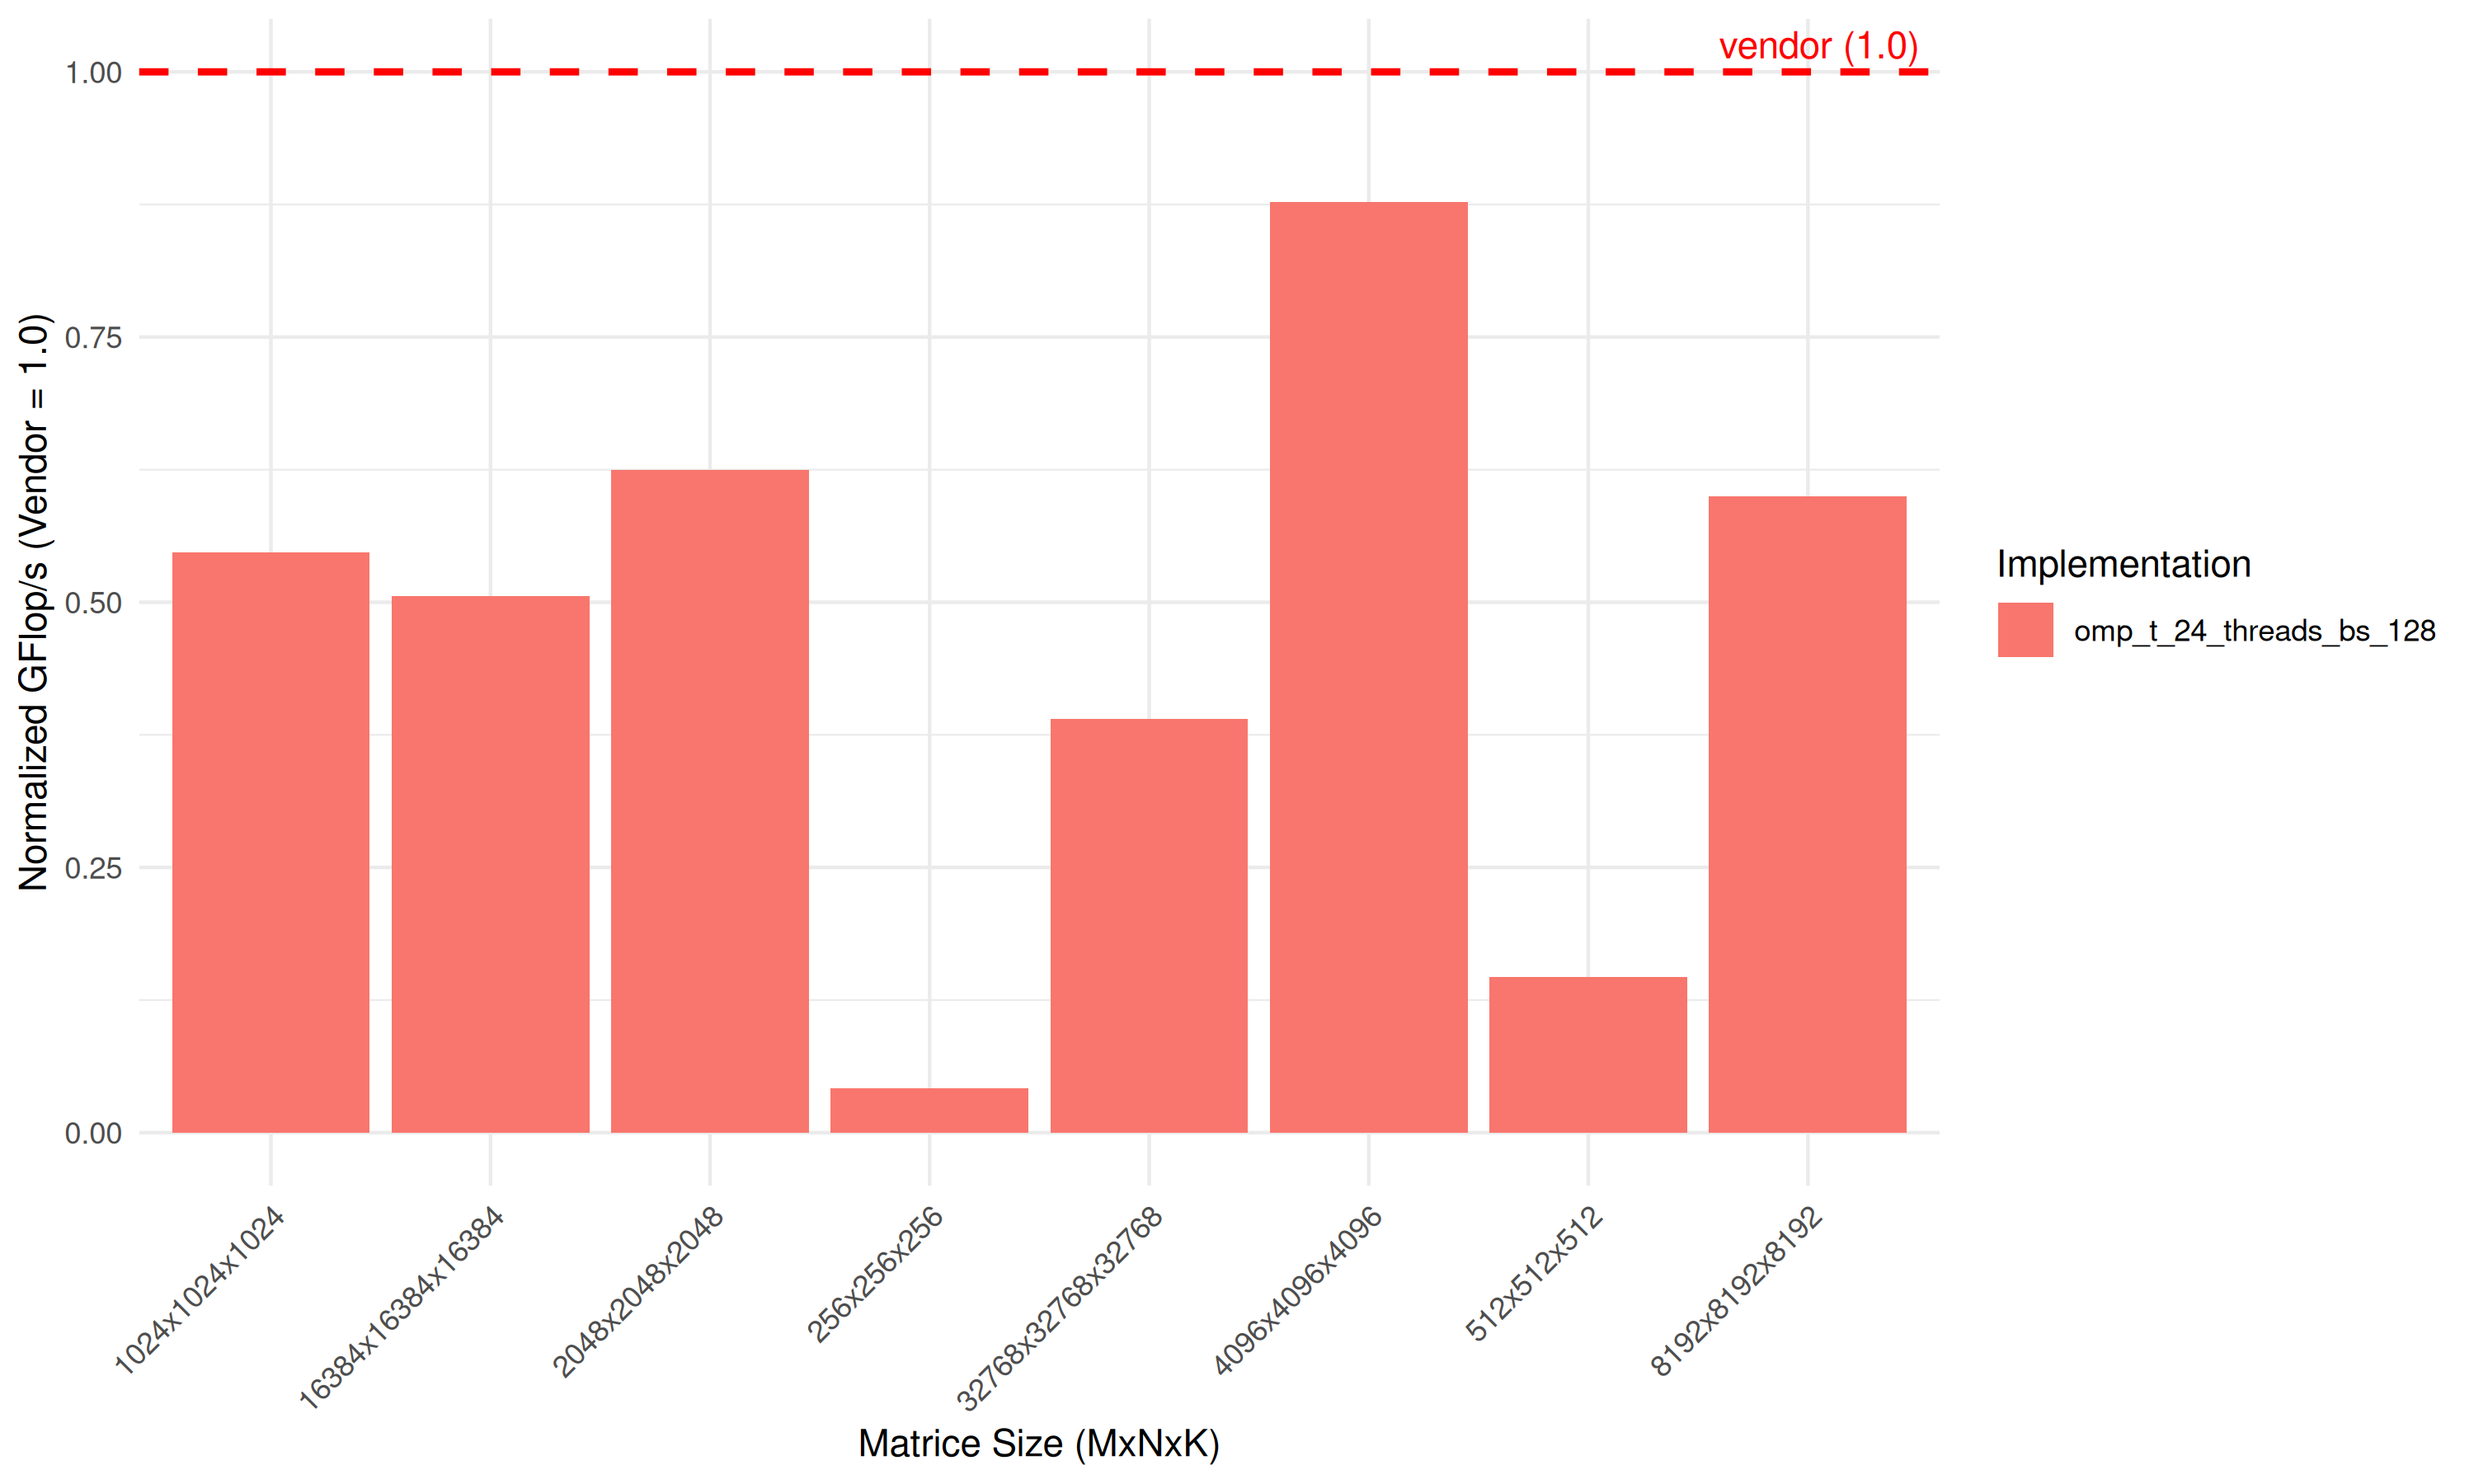
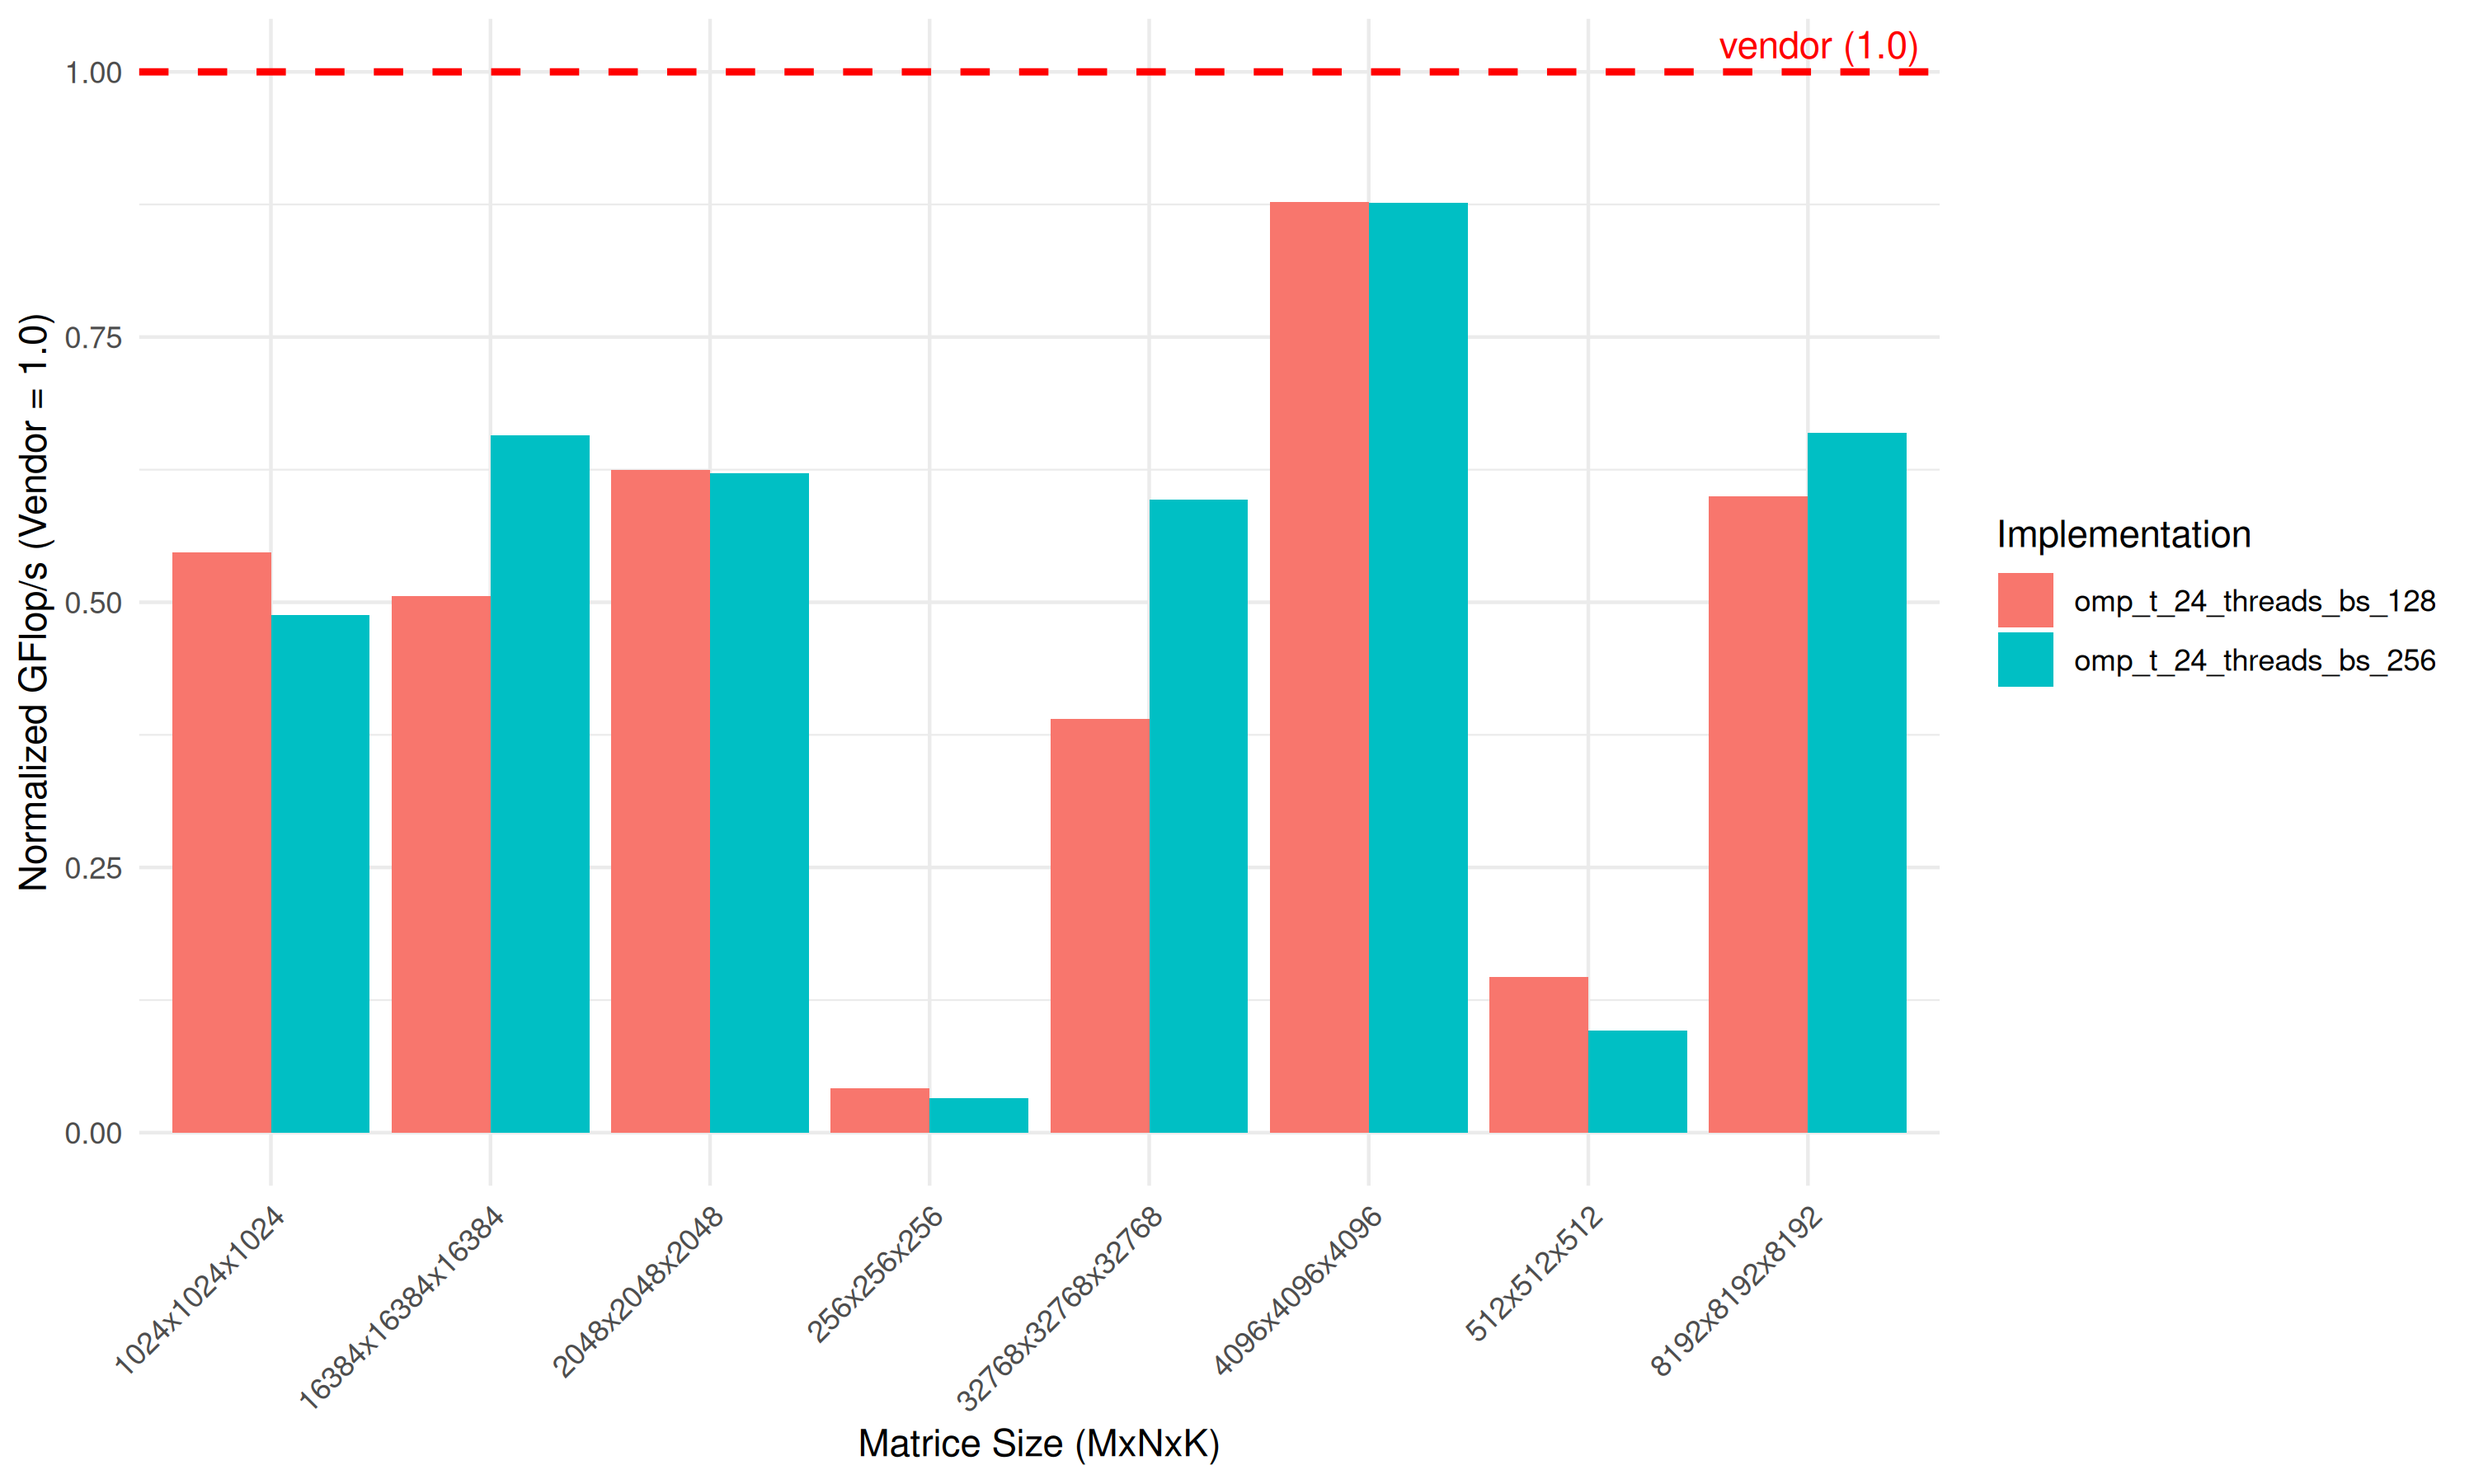
update report and add a conclusion

diff --git a/report/report.tex b/report/report.tex
@@ -92,43 +92,90 @@ En revanche, comme la version goto que nous avons implémenté ne supporte pas l
 afin d'avoir toutes les versions implémentée. Les performances avec les matrices transposées sont donc relativement mauvaises, mais ayant décidé
 de nous concentrer sur la version sans transposées, ce n'est pas grave.
 
-Pour cette version, nous avons décidé de nous comparer à la version vendor. Pour cela, nous avons fait des expériences sur 24 threads et une taille de tuiles de 128.
+Pour cette version, nous avons décidé de nous comparer à la version vendor, soit CBLAS. Pour cela, nous avons fait des expériences sur 24 threads et deux taille de tuiles de 128 et 256.
+La Figure \ref{fig:dgemm_omp_t_vendor_graph} permet de comparer nos deux versions. Nous pouvons voir que nous nous rapprochons de plus en plus de la version CBLAS
+jusqu'à 4096, puis nous commençons à nous en éloigner avec les tuiles de 128. Sur des petites matrices, nous sommes bien moins efficaces que CBLAS, sans doute dû au fait que nous utilisons une seule taille de tuile pour toutes
+les configurations, or une tuile de 128 sur une matrice en 256x256 représente une part bien différente que sur des matrices en 4096x4096 ou plus.
+
 Il est évident qu'avoir une taille de tuile adaptative par rapport à la taille du problème permettrait d'avoir de meilleures performances.
-La Figure \ref{fig:dgemm_omp_vendor_graph} permet de nos comparer nos deux versions. Nous pouvons voir que nous nous rapprochons de plus en plus de la version vendor
-jusqu'a 4096, puis nous commençons à nous en éloigner. Sur des petites matrices, nous sommes bien moins efficaces que le vendor, sans doute dû au fait que nous utilisons une seule taille de tuile pour toutes
-les configurations, or une tuille de 128 sur une matrice en 256x256 représente une part bien différente que sur des matrices en 4096x4096 ou plus.
+En effet, avant 4096, les tuiles de 128 apportent de meilleures performances que les tuiles de 256. En revanche, après 4096, les performances de la version avec les plus petites tuiles diminuent contrairement aux
+plus grandes tuiles. Une plus petite taille de tuiles sur les petites matrices serait aussi plus intéressante.
+
 \begin{figure}[htbp]
     \centering
     \begin{minipage}{0.48\textwidth}
         \centering
         \includegraphics[width=\textwidth]{assets/gemm_omp-t_vendor_simple.png}
-        \caption{Performance en GFlop/s du Dgemm om tiled contre le vendor}
-        \label{fig:dgemm_omp_vendor_graph}    
+        \caption{Performance en GFlop/s du Dgemm om tiled contre CBLAS}
+        \label{fig:dgemm_omp_t_vendor_graph}    
     \end{minipage}
      \hfill
     \begin{minipage}{0.48\textwidth}
         \centering
         \includegraphics[width=\textwidth]{assets/gemm_omp-t_vendor_bar.png}
-        \caption{Comparaison des performances de notre version OMP-tiled avec la version vendor (normalisé sur vendor)}
-        \label{fig:dgemm_omp_vendor_bar}    
+        \caption{Comparaison des performances de notre version OMP-tiled avec la version CBLAS (normalisé sur CBLAS)}
+        \label{fig:dgemm_omp_t_vendor_bar}    
     \end{minipage}
-La Figure \ref{fig:dgemm_omp_vendor_bar} permet de comparer notre version à celle du vendor, normalisé sur le temps d'exécution le 
-plus long de la version vendor.
 \end{figure}
 
+La Figure \ref{fig:dgemm_omp_t_vendor_bar} permet de comparer notre version à celle de CBLAS, normalisé sur le temps d'exécution le
+plus long de la version CBLAS. Nous pouvons voir que nous obtenons des performances très différentes selon la taille de matrices. Sur les matrices de 4096 avec  les tailles de tuiles de 
+128 et 256, nous arrivons à plus de 80\% de CBLAS.
 \subsection{DGETRF}
 
 Cette version est relativement difficile à optimiser, car nous possédons 3 critères pouvant influer sur les performances : la taille de blocs de la version séquentielle,
 la taille de blocs de la version parallèle ainsi que le nombre de threads.
 
+Nous avons aussi voulu nous comparer avec la version vendor(LAPACKE ici), comme le montrent les figures \ref{fig:dgetrf_omp_vendor_graph} et \ref{fig:dgetrf_omp_vendor_bar}
+
+\begin{figure}[htbp]
+    \centering
+    \begin{minipage}{0.48\textwidth}
+        \centering
+        \includegraphics[width=\textwidth]{assets/getrf_omp_vendor_graph.png}
+        \caption{Performance en GFlop/s du DGETRF OpenMP  contre LAPACKE}
+        \label{fig:dgetrf_omp_vendor_graph}    
+    \end{minipage}
+     \hfill
+    \begin{minipage}{0.48\textwidth}
+        \centering
+        \includegraphics[width=\textwidth]{assets/getrf_omp_vendor_bar.png}
+        \caption{Comparaison des performances de notre version OpenMP avec la version LAPACKE (normalisé sur LAPACKE)}
+        \label{fig:dgetrf_omp_vendor_bar}    
+    \end{minipage}
+\end{figure}
+
 \subsection{DGETRF Tiled}
 
 Pour cette version, il est encore plus complexe de trouver les paramètres optimaux pour une matrice donnée. En effet, en plus des 3
 critères vus lors de la section précédente, nous avons aussi la taille de tuiles qui peut jouer sur les performances.
+
+\begin{figure}
+    \centering
+    \includegraphics[width=0.6\textwidth]{assets/getrf_comparison_tilesize.png}
+    \caption{DGETRF avec taille de blocs séquentiel de 64 et OpenMP de 128 et taille de tuile variable}
+    \label{fig:getrf_omp_tiled_tilesize}
+\end{figure}
+
 \section{Mémoire distribuée - MPI}
 
 \section{Implémentation sur GPU}
 \input{dgemm_cuda.tex}
+
+\section{Conclusion}
+
+Au cours de ce projet, nous nous sommes concentrés sur l'optimisation de la multiplication de matrices avec le DGEMM.
+Nous obtenons de bons, voire très bons résultats selon les versions.
+Il reste toutefois des axes d'améliorations pour ce projet si nous souhaitons le mettre en application réelle.
+
+Nos versions du DGEMM étant déjà bien optimisées, il serait maintenant intéressant de se pencher en profondeur 
+sur la factorisation LU avec le DGETRF. Nous sommes restés sur des versions assez naïves, mais il existe des algorithmes
+plus puissants dans la littérature que l'on pourrait implémenter.
+
+De plus, afin d'avoir de bonnes performances indépendamment de la taille du problème, il serait judicieux d'implémenter des réglages
+par défaut concernant la taille de blocs ou de tuiles selon la taille de la matrice.
+Comme nous l'avons vu dans nos résultats, c'est à l'utilisateur de choisir ces paramètres et un bon réglage pour une petite matrice peut être très mauvais
+pour des matrices plus imposantes. Cela nous permettrait sans doute d'avoir des résultats plus proches des versions vendor.
 
 \appendix
 \begin{figure}[H]
